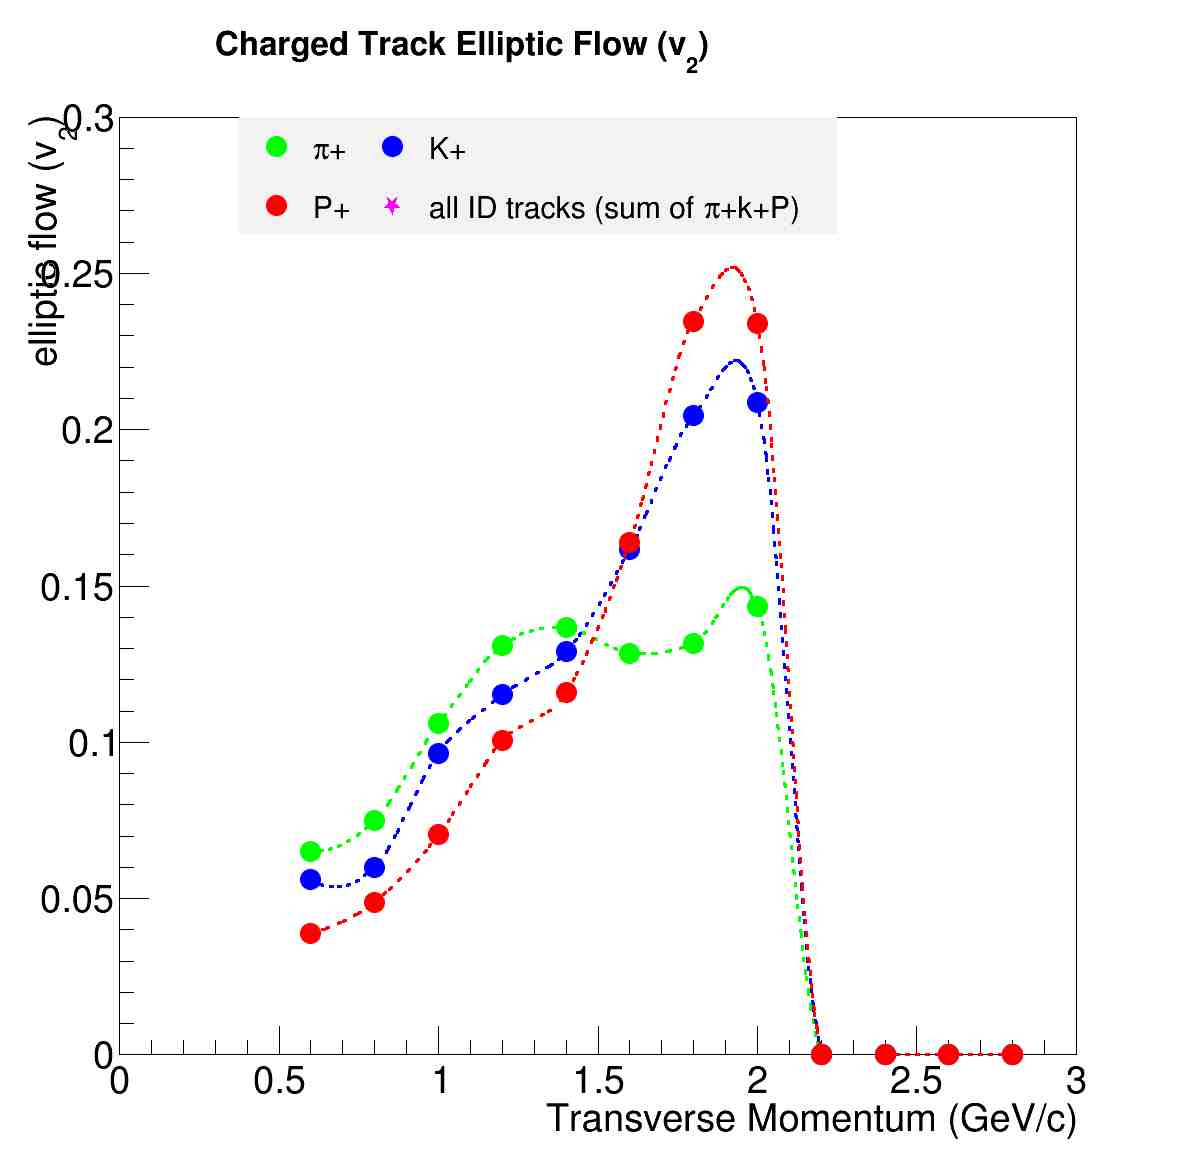
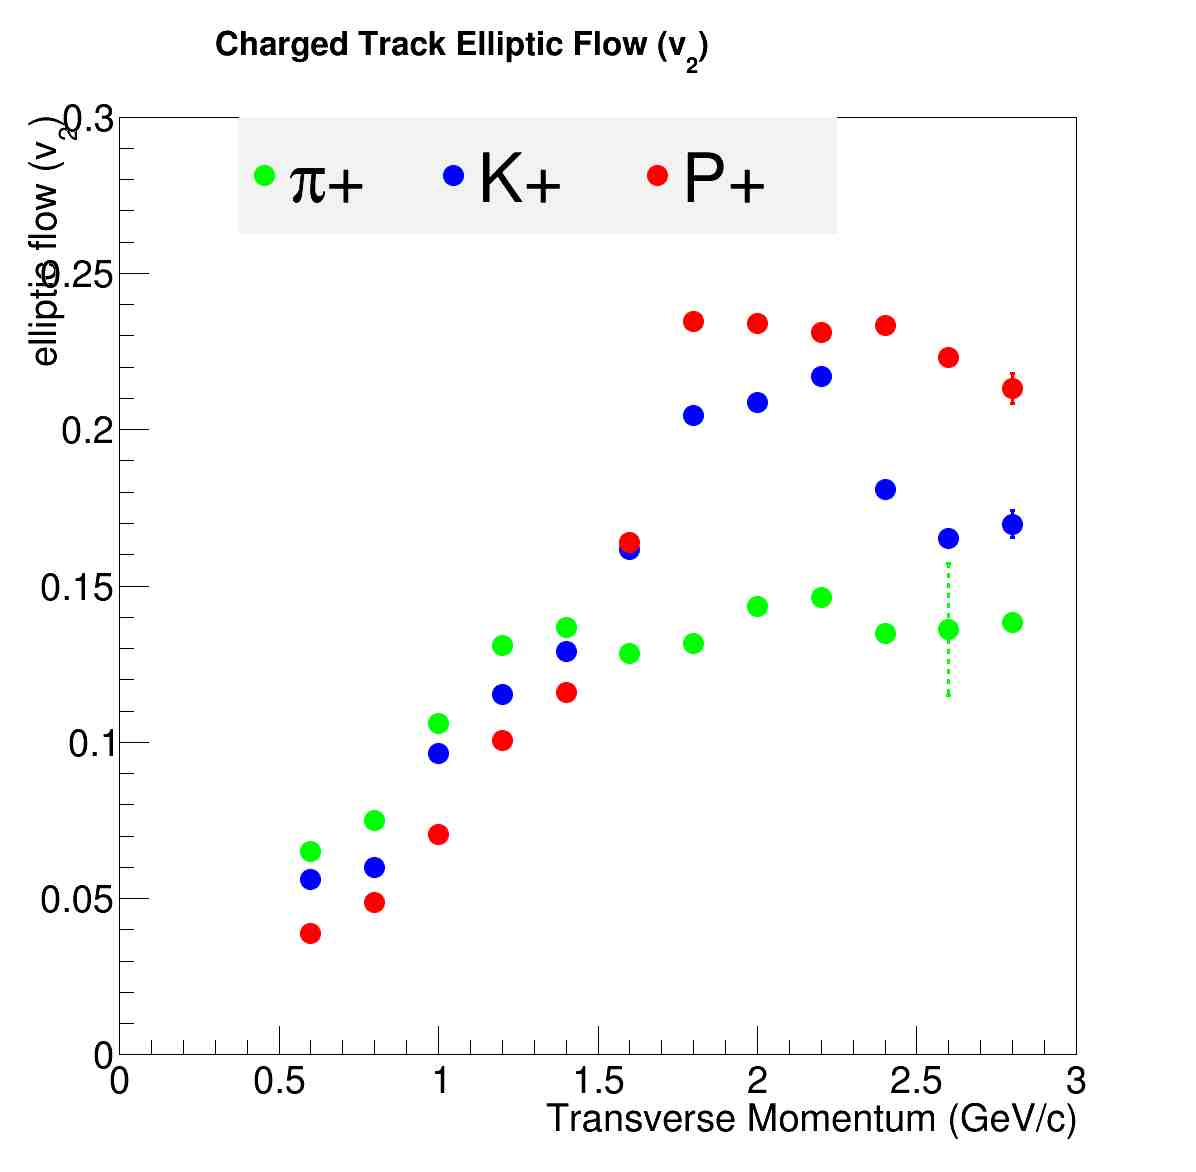
v3

diff --git a/drawV2.C b/drawV2.C
@@ -79,17 +79,17 @@ v2rawterr[11]=0.000681793;
   gr_v2allt->SetMarkerSize(2.5); gr_v2allt->SetMarkerColor(6);  gr_v2allt->SetLineColor(6); gr_v2allt->SetMarkerStyle(29); 
   //gr_v2rawt->SetMarkerSize(2); gr_v2rawt->SetMarkerColor(1);  gr_v2rawt->SetLineWidth(2);  gr_v2rawt->SetLineColor(1); gr_v2rawt->SetMarkerStyle(22);  gr_v2rawt->Draw("P");
 
-  gr_v2pion->SetLineStyle(7); gr_v2pion->SetLineWidth(3);   gr_v2pion->Draw("CP");
-  gr_v2kaon->SetLineStyle(7); gr_v2kaon->SetLineWidth(3);   gr_v2kaon->Draw("CP");
-  gr_v2prot->SetLineStyle(7); gr_v2prot->SetLineWidth(3);   gr_v2prot->Draw("CP");
+  gr_v2pion->SetLineStyle(7); gr_v2pion->SetLineWidth(3);   gr_v2pion->Draw("P");
+  gr_v2kaon->SetLineStyle(7); gr_v2kaon->SetLineWidth(3);   gr_v2kaon->Draw("P");
+  gr_v2prot->SetLineStyle(7); gr_v2prot->SetLineWidth(3);   gr_v2prot->Draw("P");
   gr_v2allt->SetLineStyle(7); gr_v2allt->SetLineWidth(3);   //gr_v2allt->Draw("CP");
   
   legend = new TLegend(0.2,0.9,0.7,0.8,0);
-  legend->SetNColumns(2);   legend->SetBorderSize(0);
+  legend->SetNColumns(3);   legend->SetBorderSize(0);
   legend->AddEntry(gr_v2pion,"#pi+","p");
   legend->AddEntry(gr_v2kaon,"K+","p");
   legend->AddEntry(gr_v2prot,"P+","p");
-  legend->AddEntry(gr_v2allt,"all ID tracks (sum of #pi+k+P)","p");
+  //legend->AddEntry(gr_v2allt,"all ID tracks (sum of #pi+k+P)","p");
   //legend->AddEntry(gr_v2rawt,"all charged tracks","p");
   legend->Draw();
 
@@ -143,7 +143,23 @@ v2prot[6] = 0.0479764;     v2errprot[6] = 0.000297471;
 v2allt[7] = 0.0355309;     v2errallt[7] = 0.000236224;
 v2pion[7] = 0.0292939;     v2errpion[7] = 0.000318738;
 v2kaon[7] = 0.0426542;     v2errkaon[7] = 0.000418053;
-v2prot[7] = 0.047862;    v2errprot[7] = 0.0003126;
+v2prot[7] = 0.047862;      v2errprot[7] = 0.0003126;
+
+v2pion[8] = 0.0298951;     v2errpion[8] = 0.0004699;
+v2kaon[8] = 0.0443421;     v2errkaon[8] = 0.000666894;
+v2prot[8] = 0.0472266;     v2errprot[8] = 0.00062743;
+
+v2pion[9] = 0.0275577;     v2errpion[9] = 0.000650622;
+v2kaon[9] = 0.0369777;     v2errkaon[9] = 0.00081272;
+v2prot[9] = 0.0476927;     v2errprot[9] = 0.000769387;
+
+v2pion[10] = 0.0278351;      v2errpion[10] = 0.0211714;
+v2kaon[10] = 0.03378;      v2errkaon[10] = 0.00169447;
+v2prot[10] = 0.0456037;    v2errprot[10] = 0.00202961;
+
+v2pion[11] = 0.0282585;      v2errpion[11] = 0.00244153;
+v2kaon[11] = 0.0346992;      v2errkaon[11] = 0.00430782;
+v2prot[11] = 0.0435877;    v2errprot[11] = 0.00491859;
 
 
   //pt bin reference
